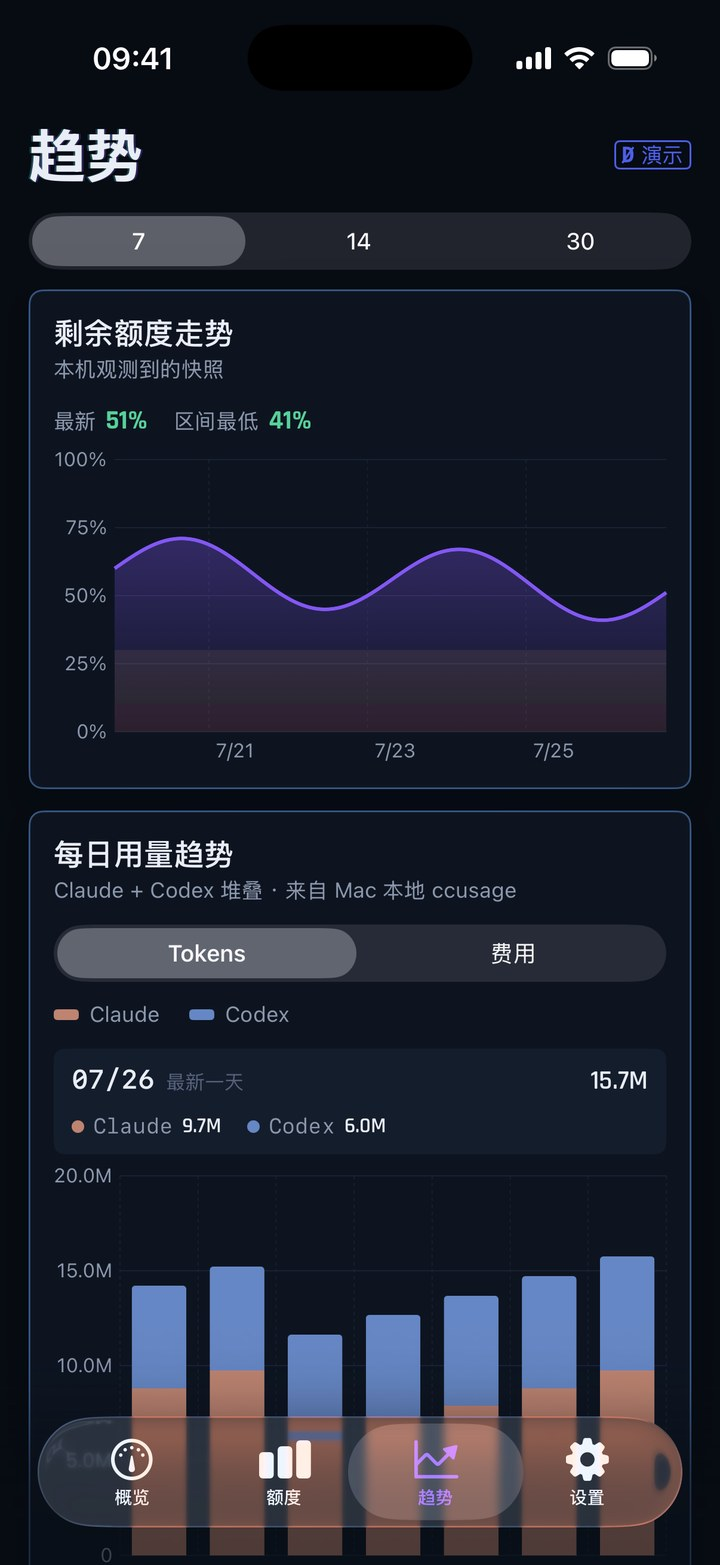
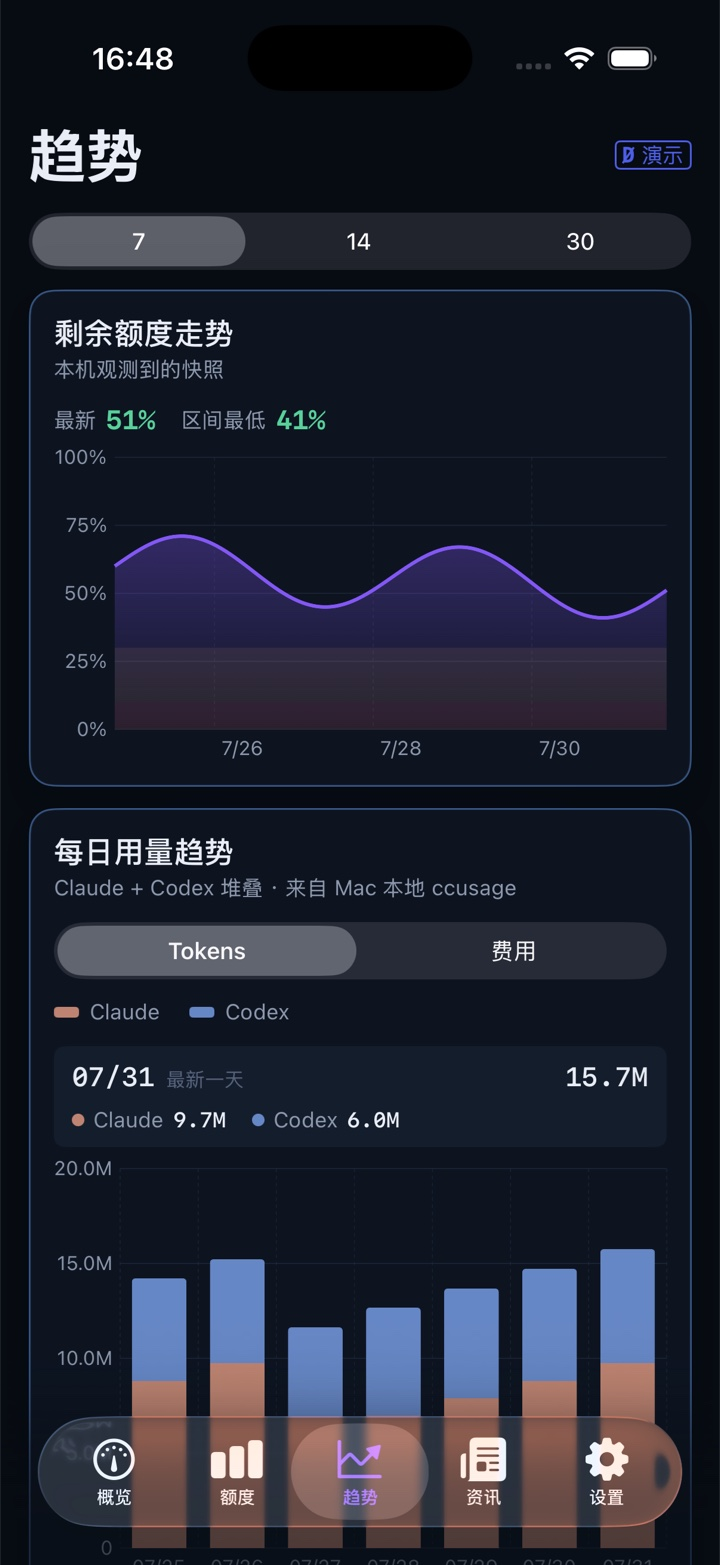
docs(site): refresh screens for the minimal iPhone redesign and add Apple Watch
The screens section now matches what actually ships:

- Fresh EN/zh iPhone screenshots of the minimal desktop-parity design —
  the Overview hero leading with today's full token count, estimated
  cost and global-percentile line — plus a new AI Feed tab figure
  showing the curated reading timeline. Captions describe the
  token-first hero, drag-to-reorder cards and the on-device story
  archive.
- A new Apple Watch figure: the frosted open-arc overview glance and
  the wrist AI Feed page, EN/zh variants, with its own two-column row
  beside the Home Screen widgets.
- Section retitled "Mac, iPhone, wrist — one design language"; the AI
  Feed lede now names all three surfaces (Mac panel, iPhone tab, watch
  page). Meta description and JSON-LD extended to watchOS; sitemap
  lastmod bumped.

Screenshots are the built-in demo scenario from the current builds
(iPhone 17 Pro / Watch Series 11 simulators).

diff --git a/site/index.html b/site/index.html
@@ -4,7 +4,7 @@
 <meta charset="utf-8">
 <meta name="viewport" content="width=device-width, initial-scale=1">
 <title>TokenRemain — Your AI quota, always in the menu bar</title>
-<meta name="description" content="TokenRemain 1.2: a private macOS and iPhone AI quota companion with encrypted multi-Mac aggregation, dynamic local usage sources, and updates that always install the latest release.">
+<meta name="description" content="TokenRemain: a private macOS, iPhone and Apple Watch AI quota companion — encrypted multi-Mac aggregation, a token-first mobile dashboard, a curated AI Feed, and frosted-arc watch glances.">
 <meta name="keywords" content="TokenRemain, AI quota, Claude Code usage, Codex usage, Cursor quota, Grok quota, GLM quota, menu bar app, macOS, token usage, rate limit, ccusage">
 <meta name="author" content="Dongheng Li">
 <meta name="robots" content="index, follow, max-image-preview:large">
@@ -40,11 +40,11 @@
   "name": "TokenRemain",
   "alternateName": "Token Remain",
   "applicationCategory": "DeveloperApplication",
-  "operatingSystem": "macOS 14+, iOS",
+  "operatingSystem": "macOS 14+, iOS, watchOS",
   "url": "https://tokenremain.com/",
   "downloadUrl": "https://tokenremain.com/#download",
   "screenshot": "https://tokenremain.com/assets/dashboard.jpg",
-  "description": "A private macOS and iPhone companion for 19+ AI coding tools, with encrypted multi-Mac quota aggregation, dynamic local usage sources, and latest-release updates. Credentials stay on your Mac.",
+  "description": "A private macOS, iPhone and Apple Watch companion for 19+ AI coding tools, with encrypted multi-Mac quota aggregation, a token-first mobile dashboard, a curated AI Feed, and latest-release updates. Credentials stay on your Mac.",
   "author": { "@type": "Person", "name": "Dongheng Li" },
   "offers": { "@type": "Offer", "price": "0", "priceCurrency": "USD" },
   "sameAs": ["https://github.com/Carstin520/token-remain"]
@@ -285,9 +285,14 @@ h2{font-size:clamp(24px,3vw,32px);font-weight:700;letter-spacing:-.01em;text-wra
 /* screens showcase */
 .shot-grid{display:grid;gap:20px}
 .shot-row3{display:grid;grid-template-columns:1fr 1fr 1.35fr;gap:20px;align-items:start}
+.shot-row3.even{grid-template-columns:1fr 1fr 1fr}
+.shot-row2{display:grid;grid-template-columns:1.15fr 1fr;gap:20px;align-items:start}
 figure.shot.phone img{width:auto;max-width:100%;max-height:600px;margin:0 auto}
 figure.shot.widgets{display:grid;gap:12px}
 figure.shot.widgets img{border-radius:16px}
+figure.shot.watch{display:grid;grid-template-columns:1fr 1fr;gap:12px;align-items:start}
+figure.shot.watch img{border-radius:26px}
+figure.shot.watch figcaption{grid-column:1/-1}
 figure.shot{
   background:var(--surface);border:1px solid var(--border);border-radius:12px;
   padding:12px;margin:0;overflow:hidden;
@@ -679,7 +684,7 @@ footer.site .disclaimer{
   .led{border-right:none;border-bottom:1px solid color-mix(in srgb,var(--border) 60%,transparent)}
   .led:last-child{border-bottom:none}
   .split{grid-template-columns:1fr;gap:28px}
-  .shot-row3{grid-template-columns:1fr}
+  .shot-row3,.shot-row2{grid-template-columns:1fr}
   .repo-band{padding:28px}
   .feed-split{grid-template-columns:1fr;gap:30px}
   .lab-stage{gap:30px;padding:30px 22px 26px}
@@ -812,24 +817,38 @@ footer.site .disclaimer{
   <!-- ================= screens ================= -->
   <section id="screens">
     <p class="eyebrow" data-num="01">Real UI</p>
-    <h2 data-i18n="s-h2">Three screens, one pixel language</h2>
-    <p class="lede" data-i18n="s-lede">You've met the menu bar popover above — everything below is a <strong style="color:var(--text)">live screenshot of the latest build</strong>: the desktop Dashboard, the iPhone app and Home Screen widgets. The iPhone shots run the app's built-in demo scenario, so they carry its DEMO mark.</p>
+    <h2 data-i18n="s-h2">Mac, iPhone, wrist — one design language</h2>
+    <p class="lede" data-i18n="s-lede">You've met the menu bar popover above — everything below is a <strong style="color:var(--text)">live screenshot of the latest build</strong>: the desktop Dashboard, the redesigned iPhone app and the Apple Watch glances. Numbers are SF Mono on every surface; decoration is gone, hierarchy comes from type. The iPhone and watch shots run the built-in demo scenario, so they carry its DEMO mark.</p>
     <div class="shot-grid">
       <figure class="shot ticked lift">
         <img src="assets/dashboard.jpg" width="1600" height="1065" alt="TokenRemain Dashboard overview: today's usage and cost donut, official quota bars (Claude coral / Codex blue), trending and risk hints" loading="lazy"
              data-shot-en="assets/dashboard.jpg" data-shot-zh="assets/dashboard-zh.jpg">
         <figcaption><span class="tag" data-i18n="cap-dash-t">Dashboard · Live</span><span class="cap" data-i18n="cap-dash-c">Real local usage: 150.04M tokens and $52.15 estimated cost today, split by provider; official quota progress and risk hints on the right.</span></figcaption>
       </figure>
-      <div class="shot-row3">
+      <div class="shot-row3 even">
         <figure class="shot phone ticked lift">
-          <img src="assets/phone-overview.jpg" width="720" height="1565" alt="TokenRemain iPhone overview: quota risk card at 46% lowest remaining, Codex and Claude bars, today's usage split and multi-day stats" loading="lazy"
+          <img src="assets/phone-overview.jpg" width="720" height="1565" alt="TokenRemain iPhone overview: today's tokens 15,740,400 with estimated cost and global percentile, lowest remaining 46% with risk badge, Codex and Claude quota cards" loading="lazy"
                data-shot-en="assets/phone-overview.jpg" data-shot-zh="assets/phone-overview-zh.jpg">
-          <figcaption><span class="tag" data-i18n="cap-pov-t">iPhone · Overview</span><span class="cap" data-i18n="cap-pov-c">Cross-device sync with your Mac — an allowlisted quota snapshot is encrypted before it enters your private iCloud database.</span></figcaption>
+          <figcaption><span class="tag" data-i18n="cap-pov-t">iPhone · Overview</span><span class="cap" data-i18n="cap-pov-c">Today's tokens lead, every digit, with estimated cost and a global-percentile standing; the quota verdict sits one line below. Long-press and drag any card to rearrange the page.</span></figcaption>
+        </figure>
+        <figure class="shot phone ticked lift">
+          <img src="assets/phone-aifeed.jpg" width="720" height="1565" alt="TokenRemain iPhone AI Feed tab: curated timeline of AI news with priority chips for quota and major updates, engagement counts and source handles" loading="lazy"
+               data-shot-en="assets/phone-aifeed.jpg" data-shot-zh="assets/phone-aifeed-zh.jpg">
+          <figcaption><span class="tag" data-i18n="cap-paf-t">iPhone · AI Feed</span><span class="cap" data-i18n="cap-paf-c">The curated feed as its own tab: a reading timeline with quota/token and major-update chips pinned first, and an on-device archive of every story you've seen.</span></figcaption>
         </figure>
         <figure class="shot phone ticked lift">
           <img src="assets/phone-trends.jpg" width="720" height="1565" alt="TokenRemain iPhone trends: remaining-quota curve over time plus daily stacked bars for Claude and Codex, 7/14/30-day ranges, tokens or cost" loading="lazy"
                data-shot-en="assets/phone-trends.jpg" data-shot-zh="assets/phone-trends-zh.jpg">
           <figcaption><span class="tag" data-i18n="cap-ptr-t">iPhone · Trends</span><span class="cap" data-i18n="cap-ptr-c">A remaining-quota curve over the synced history, plus daily stacks: 7 / 14 / 30-day ranges, tokens or cost.</span></figcaption>
+        </figure>
+      </div>
+      <div class="shot-row2">
+        <figure class="shot watch ticked lift">
+          <img src="assets/watch-overview.png" width="416" height="496" alt="TokenRemain Apple Watch overview: open frosted arc gauge with 46% lowest remaining in the centre, Codex and Claude arcs, today's tokens and estimated cost" loading="lazy"
+               data-shot-en="assets/watch-overview.png" data-shot-zh="assets/watch-overview-zh.png">
+          <img src="assets/watch-feed.png" width="416" height="496" alt="TokenRemain Apple Watch AI Feed page: a curated post card with engagement counts on the wrist" loading="lazy"
+               data-shot-en="assets/watch-feed.png" data-shot-zh="assets/watch-feed-zh.png">
+          <figcaption><span class="tag" data-i18n="cap-watch-t">Apple Watch</span><span class="cap" data-i18n="cap-watch-c">Frosted open-arc gauges on the wrist: lowest remaining in the centre, one provider arc each, today's tokens and cost beside — plus an AI Feed page and watch-face complications.</span></figcaption>
         </figure>
         <figure class="shot widgets ticked lift">
           <img src="assets/widget-m.png" width="1144" height="562" alt="TokenRemain medium Home Screen widget: lowest remaining 46%, LOW risk badge, robot mascot, Codex and Claude bars, reset countdown" loading="lazy"
@@ -895,7 +914,7 @@ footer.site .disclaimer{
   <section id="feed">
     <p class="eyebrow" data-num="03">AI Feed</p>
     <h2 data-i18n="fe-h2">The AI news that moves your quota, pre-sorted</h2>
-    <p class="lede" data-i18n="fe-lede">A curated feed of AI-industry posts, read straight inside the app. Quota, rate-limit and reset changes get <strong style="color:var(--text)">pinned to the top and pushed as notifications</strong>; ordinary industry chatter stays quiet below. No X account, no login, no keyword soup.</p>
+    <p class="lede" data-i18n="fe-lede">A curated feed of AI-industry posts, read straight inside the app — a full reading tab on iPhone with an on-device archive, a glance page on Apple Watch, a panel on the Mac Dashboard. Quota, rate-limit and reset changes get <strong style="color:var(--text)">pinned to the top and pushed as notifications</strong>; ordinary industry chatter stays quiet below. No X account, no login, no keyword soup.</p>
     <div class="feed-split">
       <div class="feed-facts">
         <div class="fact ticked lift">
@@ -1217,11 +1236,13 @@ var ZH={
   "n2t":"更多本地用量来源","n2d":"动态发现 ccusage 来源、最小化读取 Trae 轨迹，并加入独立 Windsurf 额度；每个来源都能单独控制。",
   "n3t":"钥匙串访问由你决定","n3d":"Claude 与 Codex 的只读授权只在你主动操作时开始；后台刷新保持静默，不会突然触发系统弹窗。",
   "n4t":"跨版本直达最新版","n4d":"自适应签名更新源检查保持轻量；你点击更新时会重新查询并安装当时的最新版本，即使中间跳过了多个发布。",
-  "s-h2":"三块屏幕，同一套像素语言",
-  "s-lede":"菜单栏弹窗在上方已经见过——下面全部是<strong style=\"color:var(--text)\">正在运行的最新版实机截图</strong>：桌面 Dashboard、iPhone 版与桌面小组件。iPhone 部分跑的是 App 内置的演示场景，所以画面里带着它的 DEMO 标记。",
+  "s-h2":"Mac、iPhone、手腕，同一套设计语言",
+  "s-lede":"菜单栏弹窗在上方已经见过——下面全部是<strong style=\"color:var(--text)\">正在运行的最新版实机截图</strong>：桌面 Dashboard、重新设计的 iPhone 版与 Apple Watch 速览。所有屏幕的数字统一使用 SF Mono；装饰全部退场，层级只来自字号与留白。iPhone 与手表截图跑的是内置演示场景，所以带着 DEMO 标记。",
   "cap-dash-t":"Dashboard · 实机","cap-dash-c":"真实本地用量：今日 202.16M tokens、$189.11 估算成本按服务商拆分；右侧官方额度实时进度与风险提示。",
-  "cap-pov-t":"iPhone · 概览","cap-pov-c":"与 Mac 跨设备同步：白名单额度快照在进入你的 iCloud 私有数据库前即完成加密。",
+  "cap-pov-t":"iPhone · 概览","cap-pov-c":"今日 Token 完整数字领衔，配估算成本与「超过全球 N% 用户」评价；额度结论与风险徽章紧随其后。长按拖拽任意卡片即可重排页面。",
+  "cap-paf-t":"iPhone · AI 资讯","cap-paf-c":"精选动态升级为独立标签页：时间线阅读流，额度/Token 与重大更新芯片置顶，本机归档你见过的每条动态。",
   "cap-ptr-t":"iPhone · 趋势","cap-ptr-c":"同步历史上的剩余额度曲线，加每日堆叠：7 / 14 / 30 天与 Tokens / 费用双口径。",
+  "cap-watch-t":"Apple Watch · 手表","cap-watch-c":"腕上的磨砂开弧仪表：最低剩余居中，双 provider 各占一弧，今日 Token 与成本随侧；另有 AI 资讯页与表盘复杂功能。",
   "cap-wg-t":"Widgets · 小组件","cap-wg-c":"中 / 小两档桌面小组件：最低剩余、双 provider 段条与重置倒计时，一眼扫完。",
   "pv-h2":"支持的服务",
   "pv-lede":"绝大多数服务<strong style=\"color:var(--text)\">登录即自动接入</strong>：只读各工具已经存在本机的凭证，不额外登录、不代刷。每张卡片注明数据从哪来。",
@@ -1239,7 +1260,7 @@ var ZH={
   "pv-compat-n":"token-monitor 兼容层","pv-volc":"火山引擎",
   "pv-note":"各服务的凭证位置与接口方式在仓库 <code>README</code> 有完整说明；节奏预测基于真实窗口进度与官方重置时间，判断当前用量能否撑到重置。",
   "fe-h2":"影响额度的 AI 动态，替你排好序",
-  "fe-lede":"应用内置一条精选的 AI 行业动态流。额度、速率限制与重置变化会<strong style=\"color:var(--text)\">自动置顶并推送通知</strong>；普通行业消息安静地排在下面。不需要 X 账号、不用登录、没有关键词轰炸。",
+  "fe-lede":"应用内置一条精选的 AI 行业动态流——iPhone 上是带本机归档的独立阅读标签页，Apple Watch 上是速览页，Mac 上是 Dashboard 面板。额度、速率限制与重置变化会<strong style=\"color:var(--text)\">自动置顶并推送通知</strong>；普通行业消息安静地排在下面。不需要 X 账号、不用登录、没有关键词轰炸。",
   "fe1t":"固定精选名单，不是推荐算法",
   "fe1d":"第一梯队盯官方与一手信源（<code>@claudeai</code>、<code>@AnthropicAI</code>、<code>@OpenAI</code>、<code>@sama</code>…），每 10 分钟检查一次；第二梯队从固定 12 个账号的白名单里按真实互动热度轮换。只收独立原帖——回复、转帖、引用一律拒绝。",
   "fe2t":"只有两种真正重要的优先级",
